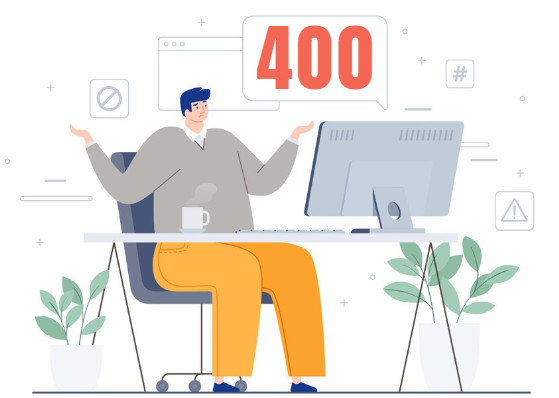
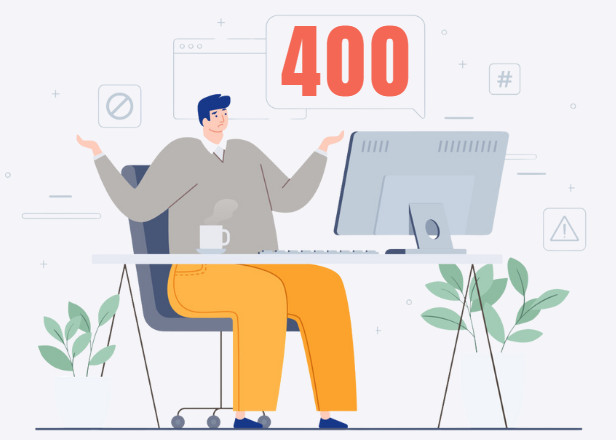
sua hinh do binh tam qua nhieu lan tren 1 dong song

diff --git a/src/main/resources/templates/error/400.html b/src/main/resources/templates/error/400.html
@@ -56,12 +56,10 @@
         <a href="/index" class="btn btn-primary">Trở về trang chủ</a>
         <div class="mt-3">
             <img
-                    src="../assets/img/illustrations/400.png"
+                    src="../assets/img/illustrations/400.jpg"
                     alt="page-misc-error-light"
                     width="500"
                     class="img-fluid"
-                    data-app-dark-img="illustrations/page-misc-error-dark.png"
-                    data-app-light-img="illustrations/page-misc-error-light.png"
             />
         </div>
     </div>

diff --git a/src/main/resources/templates/error/403.html b/src/main/resources/templates/error/403.html
@@ -54,7 +54,7 @@
         <a href="/index" class="btn btn-primary">Trở về trang chủ</a>
         <div class="mt-3">
             <img
-                    src="../assets/img/illustrations/403.png"
+                    src="../assets/img/illustrations/403.jpg"
                     alt="page-misc-error-light"
                     width="500"
                     class="img-fluid"

diff --git a/src/main/resources/templates/error/500.html b/src/main/resources/templates/error/500.html
@@ -55,7 +55,7 @@
         <a href="/index" class="btn btn-primary">Trở về trang chủ</a>
         <div class="mt-3">
             <img
-                    src="../assets/img/illustrations/500.png"
+                    src="../assets/img/illustrations/500.jpg"
                     alt="page-misc-error-light"
                     width="500"
                     class="img-fluid"
